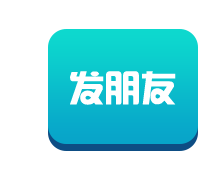
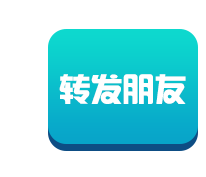
替换文件

Changed region(s): [[0.2913, 0.3955, 0.9029, 0.5932]]

diff --git a/templates/anniversary2.html b/templates/anniversary2.html
@@ -10,9 +10,9 @@
 	<meta name="apple-mobile-web-app-status-bar-style" content="black">
 	<link rel="stylesheet" type="text/css" href="/static/css/swiper.min.css">
 	<link rel="stylesheet" type="text/css" href="/static/css/anniversary2/animate.css">
-	<link rel="stylesheet" type="text/css" href="/static/css/anniversary2/layout.css?v=1.2">
-	<link rel="stylesheet" type="text/css" href="/static/css/anniversary2/layout2.css?v=1.2">
-	<link rel="stylesheet" type="text/css" href="/static/css/anniversary2/icon.css?v=1.2">
+	<link rel="stylesheet" type="text/css" href="/static/css/anniversary2/layout.css?v=1.3">
+	<link rel="stylesheet" type="text/css" href="/static/css/anniversary2/layout2.css?v=1.3">
+	<link rel="stylesheet" type="text/css" href="/static/css/anniversary2/icon.css?v=1.3">
 	<link rel="stylesheet" type="text/css" href="/static/css/lib/animate.css">
 	<link rel="stylesheet" type="text/css" href="/static/css/anniversary2/time.css">
 </head>
@@ -399,7 +399,7 @@
 				<img id="fill" src="/static/css/anniversary2/result/final/fill.png">
 	        	<img id="j-send-btn" src="/static/css/anniversary2/result/final/btn1.png">
 	        	<img id="j-share-btn" src="/static/css/anniversary2/result/final/btn2.png">
-	        	
+
 	        </div>
 	    </div>
 
@@ -415,7 +415,7 @@
 	<script type="text/javascript" src="/static/js/jquery-1.10.2.min.js"></script>
 	<script type="text/javascript" src="/static/js/swiper.jquery.min.js"></script>
 	<script type="text/javascript" src="/static/js/touch.js"></script>	
-	<script type="text/javascript" src="/static/js/anniversary/anniversary2.js?v=1.5"></script>
+	<script type="text/javascript" src="/static/js/anniversary/anniversary2.js?v=1.6"></script>
 
 </body>
 </html>

diff --git a/static/js/anniversary/anniversary2.js b/static/js/anniversary/anniversary2.js
@@ -274,8 +274,8 @@ var jQgsResult = $("#j-gs-result"), jQhwResult = $("#j-hw-result");
 
 var fmoveonTimer, amoveTimer;
 var shot = function(shotNum){
-	jingdongLevel=shotNum;
-
+	// jingdongLevel=shotNum;
+	jingdongLevel = parseInt(Math.random()*2)+1;
 	levelMusic();	
 	$('#metro1').addClass('metro1-anime animated0_7');
 	$('#metro2').addClass('metro2-anime animated0_7');
